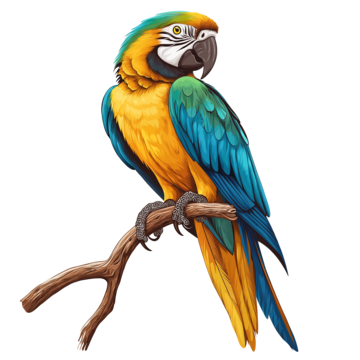
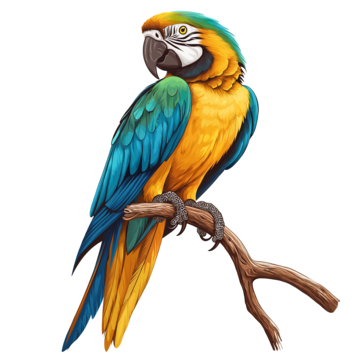
imagenes actualizadas

diff --git a/src/app/pages/about-us/about-us.component.scss b/src/app/pages/about-us/about-us.component.scss
@@ -208,7 +208,7 @@ body {
 }
 .guaca {
   position: absolute;
-  right: 10px;
+  left: 10px;
   top: 417%;
   transform: translateY(-50%);
   max-width: 200px; // Ajusta el tamaño según necesites
@@ -216,7 +216,7 @@ body {
 }
 @media (min-width: 1800px) {
   .guaca{
-    right: 8% !important;
+    left: 8% !important;
     top: 292% !important;
   }
   .ave{
@@ -226,7 +226,7 @@ body {
 }
 @media (min-width: 1600px){
   .guaca{
-    right: 6%;
+    left: 6%;
     top: 331%;
   }
   .ave{
